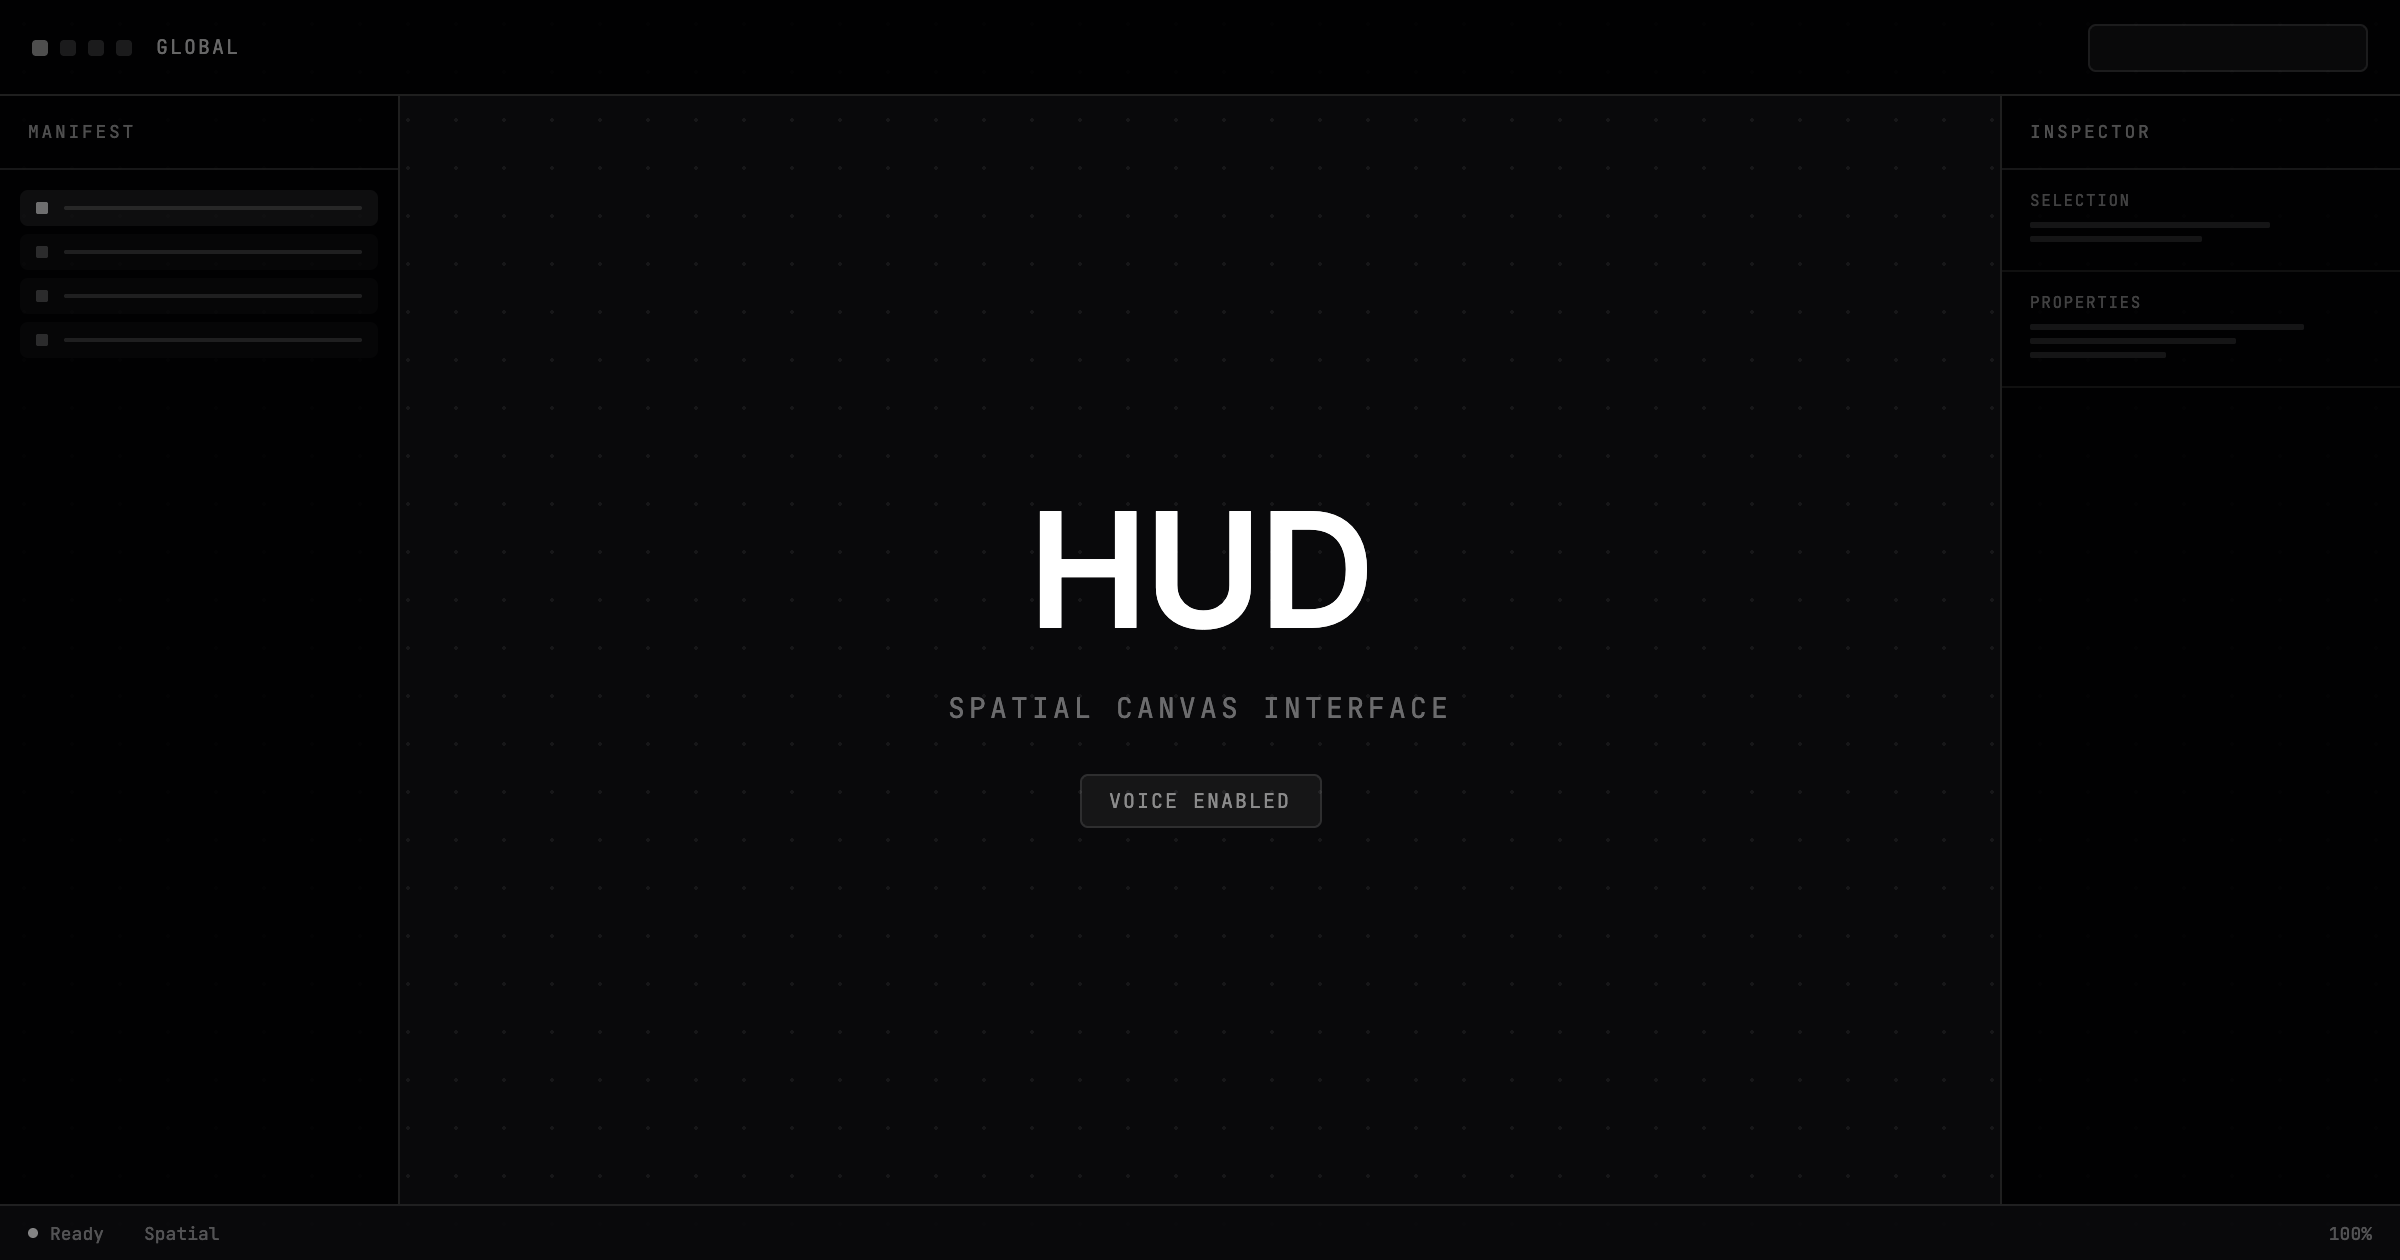
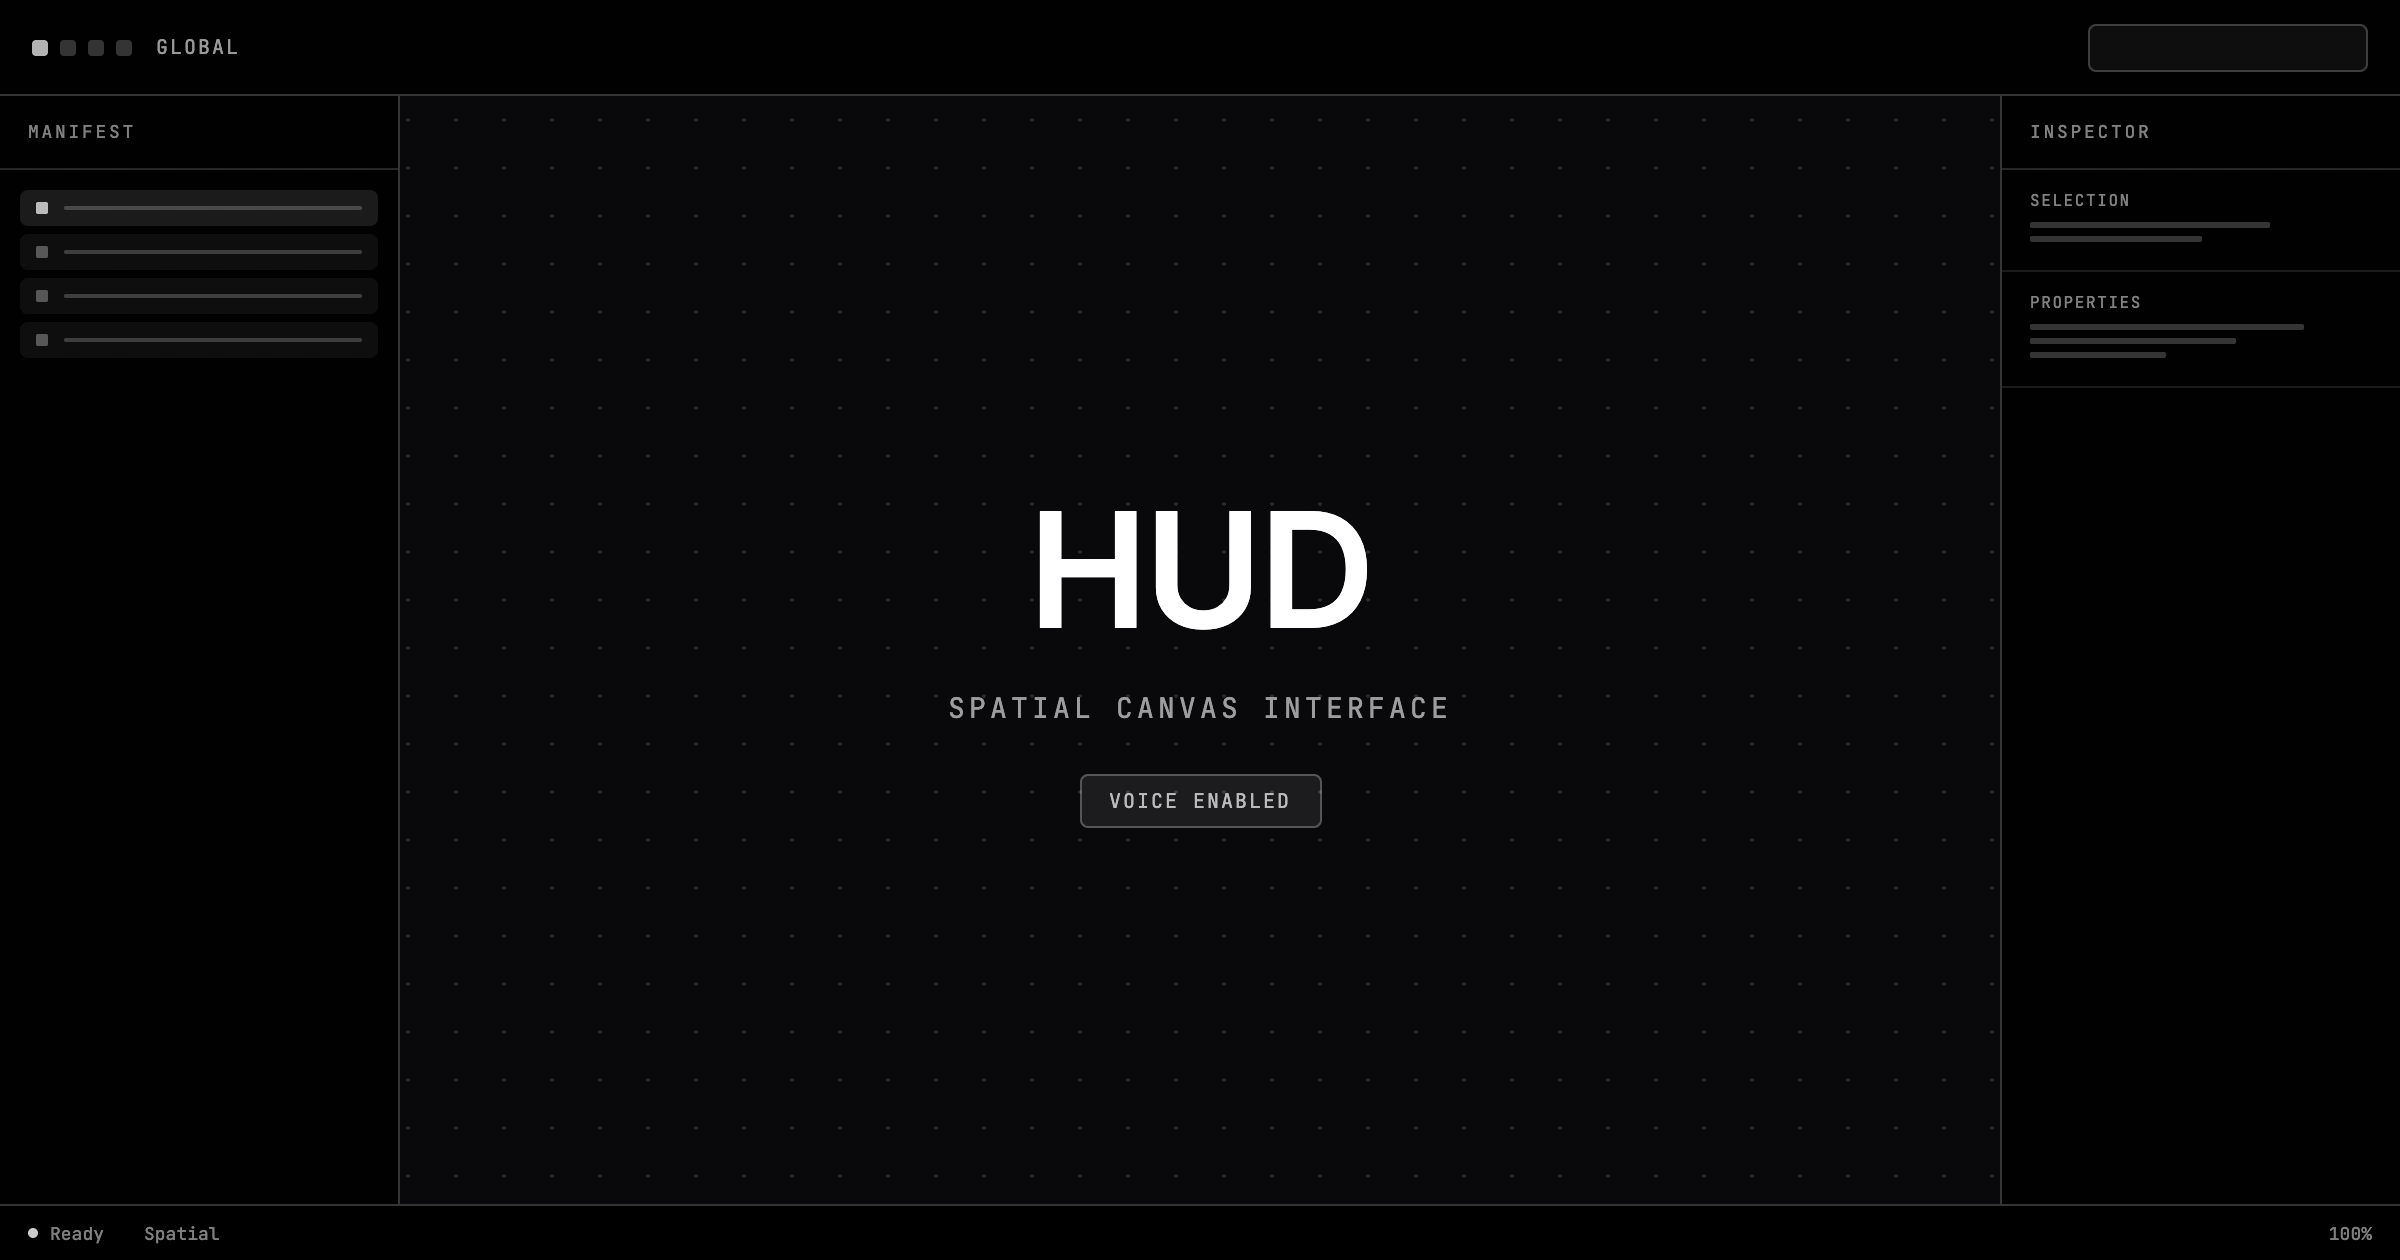
🎨 Increase contrast on OG image chrome elements

diff --git a/og-template.html b/og-template.html
@@ -21,11 +21,11 @@
       overflow: hidden;
     }
 
-    /* Subtle dot grid - matches app */
+    /* Dot grid - matches app */
     .grid {
       position: absolute;
       inset: 0;
-      background-image: radial-gradient(circle, rgba(255,255,255,0.06) 1px, transparent 1px);
+      background-image: radial-gradient(circle, rgba(255,255,255,0.12) 1px, transparent 1px);
       background-size: 24px 24px;
     }
 
@@ -36,8 +36,8 @@
       left: 0;
       right: 0;
       height: 48px;
-      background: rgba(0, 0, 0, 0.85);
-      border-bottom: 1px solid rgba(38, 38, 38, 0.8);
+      background: rgba(0, 0, 0, 0.9);
+      border-bottom: 1px solid rgba(255, 255, 255, 0.2);
       display: flex;
       align-items: center;
       padding: 0 16px;
@@ -50,24 +50,24 @@
     .nav-dot {
       width: 8px;
       height: 8px;
-      background: rgba(255, 255, 255, 0.1);
+      background: rgba(255, 255, 255, 0.2);
       border-radius: 2px;
     }
     .nav-dot.active {
-      background: rgba(255, 255, 255, 0.3);
+      background: rgba(255, 255, 255, 0.7);
     }
     .nav-label {
       font-size: 10px;
       letter-spacing: 0.1em;
-      color: rgba(255, 255, 255, 0.4);
+      color: rgba(255, 255, 255, 0.6);
       text-transform: uppercase;
     }
     .nav-spacer { flex: 1; }
     .nav-search {
       width: 140px;
       height: 24px;
-      background: rgba(255, 255, 255, 0.03);
-      border: 1px solid rgba(255, 255, 255, 0.08);
+      background: rgba(255, 255, 255, 0.05);
+      border: 1px solid rgba(255, 255, 255, 0.2);
       border-radius: 4px;
     }
 
@@ -78,17 +78,17 @@
       left: 0;
       bottom: 28px;
       width: 200px;
-      background: rgba(0, 0, 0, 0.85);
-      border-right: 1px solid rgba(38, 38, 38, 0.8);
+      background: rgba(0, 0, 0, 0.9);
+      border-right: 1px solid rgba(255, 255, 255, 0.2);
       display: flex;
       flex-direction: column;
     }
     .sidebar-header {
       padding: 12px 14px;
-      border-bottom: 1px solid rgba(38, 38, 38, 0.6);
+      border-bottom: 1px solid rgba(255, 255, 255, 0.15);
       font-size: 9px;
       letter-spacing: 0.15em;
-      color: rgba(255, 255, 255, 0.3);
+      color: rgba(255, 255, 255, 0.5);
       text-transform: uppercase;
     }
     .sidebar-content {
@@ -104,23 +104,23 @@
       gap: 8px;
       padding: 6px 8px;
       border-radius: 4px;
-      background: rgba(255, 255, 255, 0.02);
+      background: rgba(255, 255, 255, 0.05);
     }
     .list-item.active {
-      background: rgba(255, 255, 255, 0.05);
+      background: rgba(255, 255, 255, 0.1);
     }
     .list-marker {
       width: 6px;
       height: 6px;
-      background: rgba(255, 255, 255, 0.15);
+      background: rgba(255, 255, 255, 0.3);
       border-radius: 1px;
     }
     .list-marker.active {
-      background: rgba(255, 255, 255, 0.4);
+      background: rgba(255, 255, 255, 0.7);
     }
     .list-text {
       height: 2px;
-      background: rgba(255, 255, 255, 0.1);
+      background: rgba(255, 255, 255, 0.2);
       border-radius: 1px;
       flex: 1;
     }
@@ -132,25 +132,25 @@
       right: 0;
       bottom: 28px;
       width: 200px;
-      background: rgba(0, 0, 0, 0.85);
-      border-left: 1px solid rgba(38, 38, 38, 0.8);
+      background: rgba(0, 0, 0, 0.9);
+      border-left: 1px solid rgba(255, 255, 255, 0.2);
       display: flex;
       flex-direction: column;
     }
     .data-section {
       padding: 10px 14px;
-      border-bottom: 1px solid rgba(38, 38, 38, 0.4);
+      border-bottom: 1px solid rgba(255, 255, 255, 0.1);
     }
     .data-label {
       font-size: 8px;
       letter-spacing: 0.1em;
-      color: rgba(255, 255, 255, 0.25);
+      color: rgba(255, 255, 255, 0.5);
       text-transform: uppercase;
       margin-bottom: 6px;
     }
     .data-bar {
       height: 3px;
-      background: rgba(255, 255, 255, 0.08);
+      background: rgba(255, 255, 255, 0.2);
       border-radius: 1px;
       margin-bottom: 4px;
     }
@@ -162,8 +162,8 @@
       left: 0;
       right: 0;
       height: 28px;
-      background: rgba(9, 9, 11, 0.95);
-      border-top: 1px solid rgba(38, 38, 38, 0.8);
+      background: rgba(0, 0, 0, 0.95);
+      border-top: 1px solid rgba(255, 255, 255, 0.2);
       display: flex;
       align-items: center;
       padding: 0 14px;
@@ -174,16 +174,16 @@
       align-items: center;
       gap: 6px;
       font-size: 9px;
-      color: rgba(255, 255, 255, 0.3);
+      color: rgba(255, 255, 255, 0.5);
     }
     .status-dot {
       width: 5px;
       height: 5px;
-      background: rgba(255, 255, 255, 0.2);
+      background: rgba(255, 255, 255, 0.4);
       border-radius: 50%;
     }
     .status-dot.active {
-      background: rgba(255, 255, 255, 0.5);
+      background: rgba(255, 255, 255, 0.8);
     }
     .status-spacer { flex: 1; }
 
@@ -212,18 +212,18 @@
       margin-top: 12px;
       font-size: 14px;
       letter-spacing: 0.15em;
-      color: rgba(255, 255, 255, 0.4);
+      color: rgba(255, 255, 255, 0.6);
       text-transform: uppercase;
     }
     .brand-feature {
       margin-top: 24px;
       padding: 6px 14px;
-      background: rgba(255, 255, 255, 0.05);
-      border: 1px solid rgba(255, 255, 255, 0.1);
+      background: rgba(255, 255, 255, 0.08);
+      border: 1px solid rgba(255, 255, 255, 0.25);
       border-radius: 4px;
       font-size: 10px;
       letter-spacing: 0.1em;
-      color: rgba(255, 255, 255, 0.5);
+      color: rgba(255, 255, 255, 0.7);
       text-transform: uppercase;
     }
   </style>
